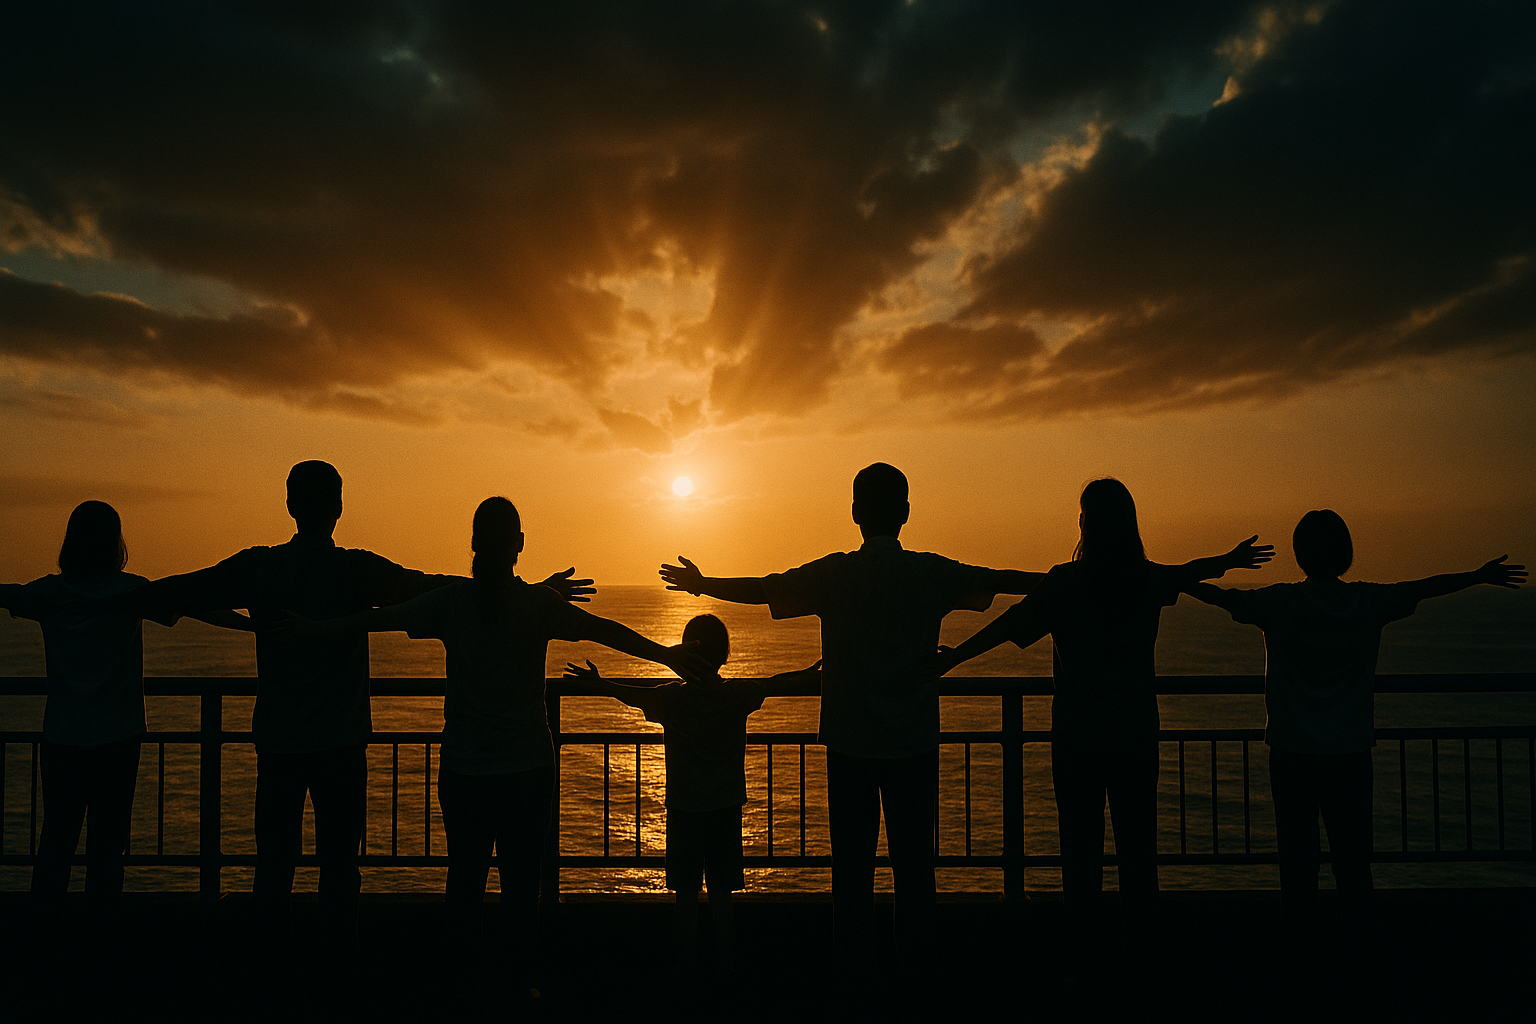
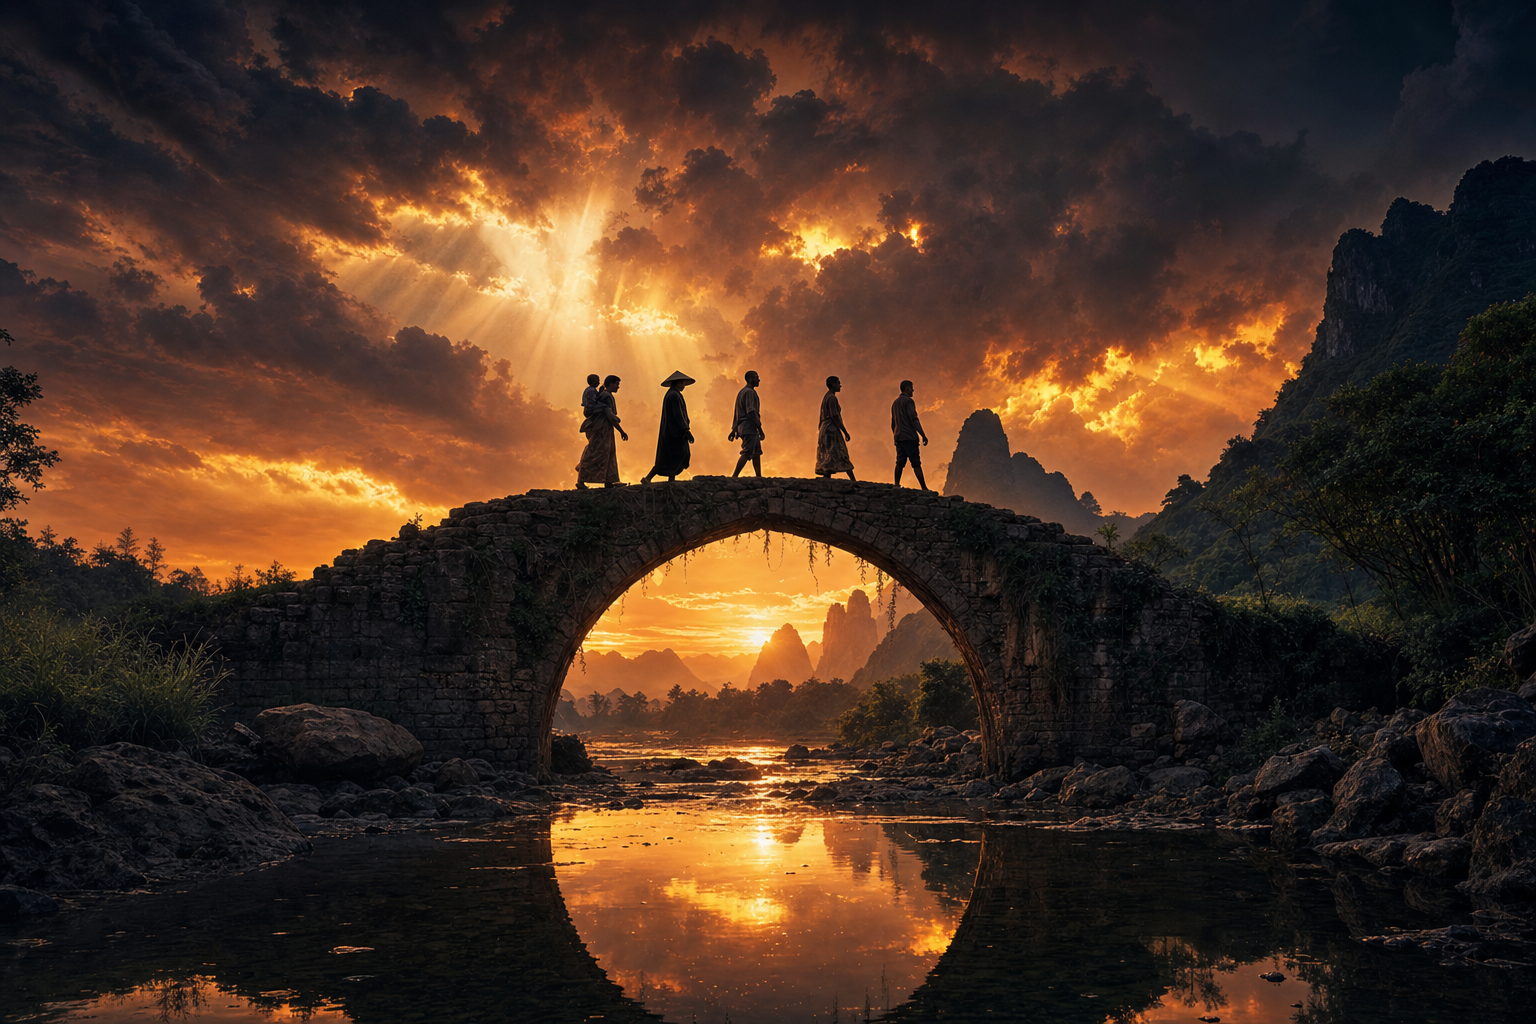
gpt-image-2で全画像を高品質再生成
モデルをgpt-image-1→gpt-image-2に更新。ヒーロー・設立趣旨書ヘッダー・活動写真の3枚をより詳細なプロンプトで再生成。

diff --git a/generate_images.py b/generate_images.py
@@ -47,14 +47,17 @@ PRESETS = {
         "size": "1536x1024",
         "quality": "high",
         "prompt": (
-            "Wide cinematic documentary photograph capturing the spirit of international humanitarian work "
-            "bridging Japan and the Philippines — Japanese volunteers and Filipino families standing together "
-            "in warm solidarity, children smiling, hands reaching across cultures, "
-            "lush tropical landscape with soft golden sunrise light, "
-            "a globe or world map softly blurred in background suggesting global connection, "
-            "NGO community outreach atmosphere, genuine human emotion, hopeful and inspiring, "
-            "photojournalism style, ultra high resolution, wide 3:2 format, "
-            "cinematic color grading with warm amber and green tones"
+            "Award-winning photojournalism photograph, published in National Geographic. "
+            "A Japanese female NGO volunteer kneels down and gently holds the hands of a young Filipino girl, "
+            "both smiling with profound warmth, surrounded by a lush tropical village. "
+            "Other volunteers and local community members work together in the soft-focus background — "
+            "building, sharing, laughing. "
+            "Late afternoon golden hour light cascades through palm fronds, casting long warm shadows. "
+            "Shallow depth of field, f/1.8 bokeh background of a rural Philippine community. "
+            "Colors: warm amber, deep emerald green, rich earth tones. "
+            "Mood: hope, solidarity, genuine human connection across cultures. "
+            "No text, no logos. Ultra-sharp, professional editorial photography, 35mm film aesthetic, "
+            "cinematic widescreen 3:2 ratio, breathtaking quality"
         )
     },
     "hero_ariake": {
@@ -147,13 +150,17 @@ PRESETS = {
         "size": "1536x1024",
         "quality": "high",
         "prompt": (
-            "Powerful wide cinematic photograph representing the founding spirit of an international NPO. "
-            "Silhouettes of diverse people — Japanese, Filipino, and other Asian nationalities — standing together "
-            "on a bridge at golden sunset, arms outstretched, facing a vast horizon of ocean and sky. "
-            "Warm amber and deep teal color palette, dramatic rays of light breaking through clouds, "
-            "sense of hope, solidarity, and global mission. "
-            "Documentary photojournalism style, ultra high resolution, cinematic widescreen, "
-            "deeply emotional and visually stunning, suitable as a dark overlay background"
+            "Breathtaking cinematic landscape photograph at dusk. "
+            "An ancient stone bridge arches over a calm river, reflecting the burning orange and purple sky. "
+            "On the bridge, silhouettes of five to six people from different backgrounds — "
+            "Japanese, Filipino, African, European — walk together toward the horizon. "
+            "One person carries a child on their back. "
+            "Dramatic god rays pierce through storm clouds, illuminating the bridge from above. "
+            "Foreground: shallow water with mirror-like reflection. "
+            "Color palette: deep navy, burnt orange, golden amber, dark forest green. "
+            "Atmosphere: timeless, monumental, deeply moving, like the opening shot of an Oscar-winning film. "
+            "Ultra-wide cinematic 3:2, extremely high detail, no text, no logos, "
+            "suitable as a dark-overlay background for a nonprofit website header"
         )
     },
     "purpose_activity": {
@@ -162,13 +169,18 @@ PRESETS = {
         "size": "1024x1536",
         "quality": "high",
         "prompt": (
-            "Authentic documentary photograph of Japanese NGO volunteers working in a rural Philippine village — "
-            "building a school classroom together with local community members, "
-            "children watching with bright curious eyes, "
-            "local women passing materials, Japanese volunteers smiling alongside Filipino families, "
-            "lush green tropical landscape, soft natural daylight filtering through palm trees, "
-            "genuine human connection, powerful humanitarian moment, "
-            "photojournalism style, rich natural colors, high contrast, portrait orientation"
+            "Powerful documentary photograph, portrait orientation, published quality. "
+            "Inside a newly built school classroom in a rural Philippine village: "
+            "A young Japanese male volunteer sits at a low desk beside three Filipino elementary school children, "
+            "guiding them through a lesson with a handwritten notebook open between them. "
+            "The children lean in with intense curiosity and delight. "
+            "Afternoon light streams through an open window, casting a warm glow across their faces. "
+            "The classroom walls show children's drawings and a world map. "
+            "Through the window: lush green tropical mountains and a clear blue sky. "
+            "Color palette: warm golden tones, deep greens, rich skin tones. "
+            "Mood: transformative, intimate, full of possibility. "
+            "35mm documentary photography, f/2.0, natural light only, "
+            "no flash, no staged poses — raw human truth, portrait 2:3 ratio, exceptional quality"
         )
     },
     "line_banner": {
@@ -203,7 +215,7 @@ PRESETS = {
 # ── API 呼び出し ───────────────────────────────────────────────────────────
 def generate_image(api_key, prompt, size, quality, output_path):
     body = json.dumps({
-        "model": "gpt-image-1",
+        "model": "gpt-image-2",
         "prompt": prompt,
         "n": 1,
         "size": size,
@@ -221,7 +233,7 @@ def generate_image(api_key, prompt, size, quality, output_path):
 
     print(f"  → API 呼び出し中... ({size}, quality={quality})")
     try:
-        with urllib.request.urlopen(req, timeout=120) as resp:
+        with urllib.request.urlopen(req, timeout=180) as resp:
             result = json.loads(resp.read())
     except urllib.error.HTTPError as e:
         detail = e.read().decode()
@@ -250,7 +262,7 @@ def main():
     parser.add_argument("--size", default="1536x1024",
                         choices=["1024x1024", "1536x1024", "1024x1536"],
                         help="画像サイズ")
-    parser.add_argument("--quality", default="high", choices=["standard", "high"],
+    parser.add_argument("--quality", default="high", choices=["low", "medium", "high", "auto"],
                         help="画質")
     args = parser.parse_args()
 
